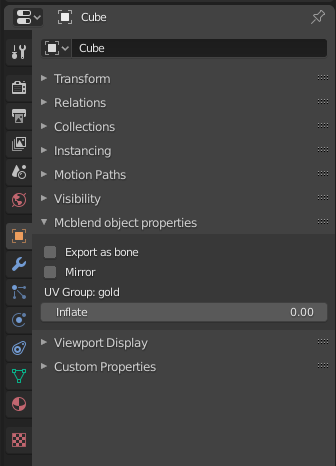
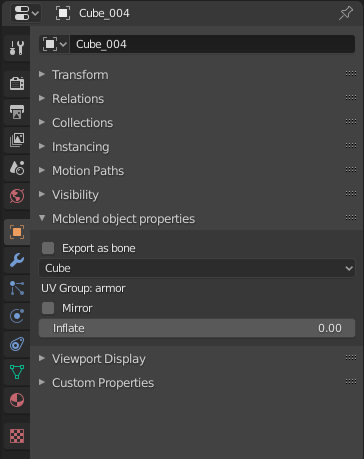
Deployed 3f38d8e with MkDocs version: 1.1.2

diff --git a/basic_operators/index.html b/basic_operators/index.html
@@ -74,9 +74,11 @@
     </li>
     <li class="toctree-l2"><a class="reference internal" href="#uv-mapping">UV-mapping</a>
     </li>
-    <li class="toctree-l2"><a class="reference internal" href="#modifying-mcblend-properties">Modifying Mcblend properties</a>
+    <li class="toctree-l2"><a class="reference internal" href="#other-operators">Other operators</a>
         <ul>
     <li class="toctree-l3"><a class="reference internal" href="#toggle-mirror-for-uv-mapping">Toggle mirror for UV mapping</a>
+    </li>
+    <li class="toctree-l3"><a class="reference internal" href="#fix-invalid-cube-uv">Fix invalid cube UV</a>
     </li>
     <li class="toctree-l3"><a class="reference internal" href="#set-the-uv-group">Set the UV group</a>
     </li>
@@ -87,6 +89,8 @@
     <li class="toctree-l3"><a class="reference internal" href="#inflate">Inflate</a>
     </li>
     <li class="toctree-l3"><a class="reference internal" href="#round-dimensions">Round dimensions</a>
+    </li>
+    <li class="toctree-l3"><a class="reference internal" href="#separate-cubes">Separate cubes</a>
     </li>
         </ul>
     </li>
@@ -257,7 +261,7 @@ and uses per-face UV mapping.</p>
 you're doing. The faces on the UV must remain rectangles, or the UV of the
 exported model may have unexpected shapes.</p>
 </div>
-<h2 id="modifying-mcblend-properties">Modifying Mcblend properties</h2>
+<h2 id="other-operators">Other operators</h2>
 <p>The "Operators" panel gives access to operators that modify various
 properties used by Mcblend.</p>
 <p><img alt="" src="../img/operators_panel.png" /></p>
@@ -269,6 +273,18 @@ this property are mapped as if they had the Minecraft mirror property.
 Using this operator doesn't remap the UV. If you want to change
 the UV of the object, you must also use the operator from the
 <a href="#uv-mapping">Set bedrock UVs</a> panel to update the UVs.</p>
+<h3 id="fix-invalid-cube-uv">Fix invalid cube UV</h3>
+<p>Fix invalid cube UV operator - as the name suggests - is used to fix invalid
+UV-mapping of the cubes. All faces of the cubes in the Minecraft model must
+be rectangular and have certain rotation. This operator ensures that this
+conditions are true. It's particularly useful when you get an error message
+which says that certain object has invalid UV-mapping and is impossible to
+export.</p>
+<div class="admonition note">
+<p class="admonition-title">Note</p>
+<p>This operator affects only the selected objects with <em>Cube</em>
+<a href="../gui_changes#object-properties">mesh type</a>.</p>
+</div>
 <h3 id="set-the-uv-group">Set the UV group</h3>
 <p>Adds selected objects to one of the existing <a href="../uv_groups">UV-groups</a>.</p>
 <h3 id="clear-the-uv-group">Clear the UV group</h3>
@@ -284,7 +300,7 @@ independent bone, you need to use this operator.</p>
 <p>The best way of using Mcblend is to have one rig for the model and
 parenting the meshes to bones of that rig. This allows you to take the
 advantage of features like inverse kinematics and also creates a
-model in which it's really easy to distinguish which Blender object becames
+model in which it's really easy to distinguish which Blender object becomes
 what in Minecraft model. Bones will be translated into Minecraft
 bones and meshes into cubes. If you add some empties without children
 they will become the locators.</p>
@@ -297,6 +313,28 @@ viewport. You can use this panel to adjust the "inflate" value.</p>
 <h3 id="round-dimensions">Round dimensions</h3>
 <p>Rounds the dimensions of the object in such way that
 they become integers in exported Minecraft model.</p>
+<h3 id="separate-cubes">Separate cubes</h3>
+<p>Separate cubes can detect cubes grouped in a single mesh and separate them into
+multiple objects. Unlike the <em>Mesh: Separate</em> operator (vanilla blender
+operator), the <em>Separate cubes</em> from Mcblend is designed for working with
+cuboids and can detect their rotations. This is important because the cubes
+(meshes) of the models from Mcblend must be aligned to rotations of the object
+that contain them.</p>
+<div class="admonition note">
+<p class="admonition-title">Note</p>
+<p>If you happen to have a mesh with single cube rotated in edit mode 
+(mesh not aligned to object rotation), you can use this operator to fix the
+problem. The operator won't create new objects if there is only one cube
+in the mesh but it will fix the rotation problem.</p>
+</div>
+<p>Images below show the difference between applying <em>Separate cubes</em> and
+<em>Mesh: Separate</em> operators:</p>
+<p><em>Before separating cubes:</em>
+<img alt="" src="../img/separate_cubes_before.png" /></p>
+<p><em>After separating cubes:</em>
+<img alt="" src="../img/separate_cubes_after.png" /></p>
+<p><em>Separated objects after using default blender Mesh-&gt;Separate operator:</em>
+<img alt="" src="../img/separate_cubes_using_mesh_separate.png" /></p>
               
             </div>
           </div>

diff --git a/limitations/index.html b/limitations/index.html
@@ -54,7 +54,7 @@
                 <ul class="current">
                     <li class="toctree-l1 current"><a class="reference internal current" href="./">Limitations</a>
     <ul class="current">
-    <li class="toctree-l2"><a class="reference internal" href="#cuboids-only">Cuboids only</a>
+    <li class="toctree-l2"><a class="reference internal" href="#every-cube-must-be-a-separate-blender-object">Every cube must be a separate Blender object</a>
     </li>
     <li class="toctree-l2"><a class="reference internal" href="#no-wide-angles-in-animations">No wide angles in animations</a>
     </li>
@@ -124,24 +124,16 @@
             <div class="section">
               
                 <h1 id="limitations">Limitations</h1>
-<h2 id="cuboids-only">Cuboids only</h2>
-<p>Minecraft Bedrock Edition models must only be made of cuboids (unless you are
-using an experimental feature that is not yet supported). You cannot use other
-shapes in your model.</p>
-<p>Each cube in the model must be a separate mesh. The mesh must be exactly the
-same shape as its bounding box. If the model shape is different from the
-bounding box, Mcblend may fail on export, and if not, the exported
-model will only be an approximation of what you see in the viewport.</p>
-<div class="admonition note">
-<p class="admonition-title">Note</p>
-<p>The best way to avoid problems with invalid meshes is to always use the
-"Object mode" for editing the model and always scaling the cuboids in their
-local space.</p>
-<p>Additionally, you can enable drawing of an object boundary in:
-<code>Object properties -&gt; Viewport display -&gt; Bounds</code></p>
-</div>
+<h2 id="every-cube-must-be-a-separate-blender-object">Every cube must be a separate Blender object</h2>
+<p>If you are creating a traditional Minecraft model with all parts made out of
+cubes you mast make sure that every cube is an separate object (separate mesh).</p>
+<p>You can use the edit mode to rotate, scale and move your cubes to your preference
+however, they mast be separated before you export the model
+(see <em><a href="../basic_operators#separate-cubes">separate cubes operator</a></em>)</p>
+<p>If you don't want to be restricted to using only cuboids for your model you can
+also mark your objects as <a href="../gui_changes#object-properties">polymesh</a>.</p>
 <h2 id="no-wide-angles-in-animations">No wide angles in animations</h2>
-<p>There must be no more than 180° rotation between two keyframes.</p>
+<p>There must be no more than 180° rotation between two key frames.</p>
 <p>This issue is caused by the way Mcblend computes Minecraft's rotations
 internally.</p>
 <p>Blender supports multiple rotation modes and uses different rotation types for
@@ -156,18 +148,19 @@ fact that quaternions help avoid some calculation errors.</p>
 <p>Unfortunately, the quaternion number system has only one unique representation
 for each rotation orientation, so one cannot distinguish full rotation from no
 rotation (360° == 0°).</p>
-<p>Therefore, you cannot use angles greater than 180° between two keyframes.</p>
+<p>Therefore, you cannot use angles greater than 180° between two key frames
+because Mcblend will always try to export as short rotation as possible.</p>
 <div class="admonition note">
 <p class="admonition-title">Note</p>
-<p>A quick fix to this problem is adding additional keyframes for wide
+<p>A quick fix to this problem is adding additional key frames for wide angle
 rotations.</p>
 </div>
 <h2 id="no-dots-in-names-names">No dots in names names</h2>
 <p>The add-on does not allow the use of names that have periods. Anything after
 the first dot in the object name is ignored during the conversion. You can use
-dots in the names of the objects that aren't converted to bones in exported 
+dots in the names of the objects that aren't converted to bones of exported 
 Minecraft model. The conversion rules are described in the
-<a href="../conversion_rules/">next</a> section of the user documentation.</p>
+<a href="../conversion_rules/">conversion rules</a> section of the user manual.</p>
               
             </div>
           </div>

diff --git a/index.html b/index.html
@@ -56,6 +56,16 @@
     </li>
     <li class="toctree-l2"><a class="reference internal" href="#installation">Installation</a>
     </li>
+    <li class="toctree-l2"><a class="reference internal" href="#updating">Updating</a>
+    </li>
+    <li class="toctree-l2"><a class="reference internal" href="#which-version-should-i-install">Which version should I install</a>
+        <ul>
+    <li class="toctree-l3"><a class="reference internal" href="#pre-release-vs-latest-release">Pre-release vs Latest release</a>
+    </li>
+    <li class="toctree-l3"><a class="reference internal" href="#versioning-system">Versioning system</a>
+    </li>
+        </ul>
+    </li>
     </ul>
                     </li>
                 </ul>
@@ -127,15 +137,11 @@
 <p>A Blender addon for creating and animating Minecraft Bedrock Edition models.</p>
 <h2 id="features">Features</h2>
 <ul>
-<li>Importing Minecraft Bedrock Edition models.</li>
-<li>Tools that support Minecraft models:</li>
-<li>Generating Minecraft style UV-mapping (default and per-face UV-mapping),</li>
-<li>Generating textures.</li>
-<li>Exporting keyframe animations.</li>
-<li>Exporting poses of models as a single frame looped animations.</li>
-<li>Mcblend supports models that use Armatures so it's possible to use
-features such as inverse kinematics to your advantage to create animating
-easier. You can also use baked animations with physics.</li>
+<li>Importing and exporting Minecraft Bedrock Edition polymesh and cube based models</li>
+<li>Generating UV-maps and textures for Minecraft models</li>
+<li>Exporting animations</li>
+<li>Exporting poses</li>
+<li>The animated models can use armatures and constraints to make animating easier. Mcblend can detect parts moved by the constraints and add that to Minecraft animations even though they Minecraft don't have this kind of features.</li>
 </ul>
 <h2 id="planned-features">Planned features</h2>
 <p>The improvements planned for this Blender plugin are often listed as
@@ -152,6 +158,26 @@ easier. You can also use baked animations with physics.</li>
 <li>Search for "Mcblend" in Add-ons and select the check box to enable the add-on
 <img alt="" src="img/blender_addons_checkbox.png" /></li>
 </ol>
+<h2 id="updating">Updating</h2>
+<p>Currently there is no system for updating Mcblend. If you want to update than you
+must uninstall the old version of the addon and than install the new one.</p>
+<h2 id="which-version-should-i-install">Which version should I install</h2>
+<h3 id="pre-release-vs-latest-release">Pre-release vs Latest release</h3>
+<p>The top first two releases at the top of the list of releases for Mcblend - <em>Pre-release</em>
+and <em>Latest release</em>. The Pre-release versions are used to quickly deploy a new version
+of Mcblend before updating this user manual. This means that Pre-release versions usually
+have more features and some additional bug-fixes but they are not documented. When
+this user manual is updated the <em>Pre-release</em> is changed to <em>Latest release</em>.</p>
+<h3 id="versioning-system">Versioning system</h3>
+<p>The Mcblend version numbers are created with 3 dot-separated numbers: A.B.C</p>
+<ul>
+<li>A - Compatibility breaking change (some change in the code which may make some
+of the data from the project to be lost in case of upgrading from older version of
+Mcblend)</li>
+<li>B - New features</li>
+<li>C - Bug fixes</li>
+</ul>
+<p>Changing A resets B and C. Changing B resets C.</p>
               
             </div>
           </div>
@@ -205,5 +231,5 @@ easier. You can also use baked animations with physics.</li>
 
 <!--
 MkDocs version : 1.1.2
-Build Date UTC : 2020-12-24 10:31:09.034173+00:00
+Build Date UTC : 2021-03-01 20:20:57.196771+00:00
 -->

diff --git a/gui_changes/index.html b/gui_changes/index.html
@@ -154,10 +154,32 @@ panels:</p>
 <p><img alt="" src="../img/uv_groups_panel.png" /></p>
 <h2 id="object-properties">Object properties</h2>
 <p>Object properties tab has new panel - <em>Mcblend object properties</em>.
-It lets you view and edit
-<a href="../basic_operators/#modifying-mcblend-properties">custom object properties</a>
-used by Mcblend.</p>
+It lets you view and edit custom object properties used by
+<a href="(../basic_operators/#modifying-mcblend-properties)">Mcblend operators</a>.</p>
 <p><img alt="" src="../img/object_properties.png" /></p>
+<ul>
+<li><em>Export as bone</em> - whether the object should be always exported as
+  independent bone or it can be exported as cube/polymesh and grouped with
+  other objects.</li>
+<li><em>Mesh type (dropdown list)</em> - <em>Cube</em> or <em>Poly mesh</em>. Decides if the object
+  should be exported as a cube or polymesh. Objects with non-cuboid shapes must
+  be polymesh type or you won't be able to export them.</li>
+</ul>
+<div class="admonition note">
+<p class="admonition-title">Note</p>
+<p>Polymesh models are still experimental Minecraft feature and they could
+even be removed from Minecraft. Experimental features are not allowed on
+marketplace map so keep that in mind if you're making a map for
+marketplace.</p>
+</div>
+<ul>
+<li><em>UV Group (textfield)</em> - displays the <a href="../uv_groups">UV-group</a> name of the
+  selected object.</li>
+<li><em>Mirror</em> - the mirror property is used only during the
+  <a href="../basic_operators/#uv-mapping">UV-mapping</a>. It affects how to map the faces
+  of the object in a same way as Minecraft mirror property of a cube.</li>
+<li><em>Inflate</em> - stores the Minecraft inflate property value of the cube.</li>
+</ul>
 <div class="admonition note">
 <p class="admonition-title">Note</p>
 <p>Editing the Inflate value through this panel does not change the dimensions

diff --git a/conversion_rules/index.html b/conversion_rules/index.html
@@ -130,15 +130,20 @@ unexpected.</p>
 <ol>
 <li>An empty or mesh with custom
   <a href="../basic_operators/#toggle-export-as-bones"><em>export as bone</em></a> property
-  always creates a a bone or a bone with cube, respectively.</li>
+  always creates a a bone or a bone with cube/polymesh, respectively.</li>
 <li>A Blender bone is converted into a Minecraft bone unless it has no children
   and no parents. In this case it isn't converted at all. This behavior is to
   prevent the exporting of inverse kinematics bones.</li>
 <li>An empty becomes a bone unless it has a parent but no children. In this case
   it creates a locator.</li>
-<li>Mesh without parent becomes a bone with a cube inside. Mesh with a parent
-  becomes a cube.</li>
+<li>Mesh without parent becomes a bone with a cube/polymesh inside. Mesh with a parent
+  becomes a cube/polymesh.</li>
 </ol>
+<div class="admonition note">
+<p class="admonition-title">Note</p>
+<p>The <a href="../gui_changes#object-properties">mesh type</a> property decides whether
+the mesh should be exported as cube or polymesh.</p>
+</div>
 <p><strong>The conversion rules can also be represented with this table:</strong></p>
 <table>
 <thead>
@@ -170,11 +175,11 @@ unexpected.</p>
 </tr>
 <tr>
 <td><strong>Mesh</strong></td>
-<td>bone &amp; cube</td>
-<td>bone &amp; cube</td>
-<td>cube</td>
-<td>bone &amp; cube</td>
-<td>cube</td>
+<td>bone &amp; cube/polymesh</td>
+<td>bone &amp; cube/polymesh</td>
+<td>cube/polymesh</td>
+<td>bone &amp; cube/polymesh</td>
+<td>cube/polymesh</td>
 </tr>
 </tbody>
 </table>

diff --git a/texture_customization/index.html b/texture_customization/index.html
@@ -133,7 +133,7 @@
           <div role="main">
             <div class="section">
               
-                <h1 id="texture-customization-advanced">Texture customization (advanced)</h1>
+                <h1 id="texture-generator-customization">Texture generator customization</h1>
 <p><img alt="" src="../img/customized_uv_groups.png" /></p>
 <p>You can customize the appearance of a UV-group by applying masks to its faces
 in new custom panel in <a href="../gui_changes/#scene-properties">Scene Properties</a>.</p>
